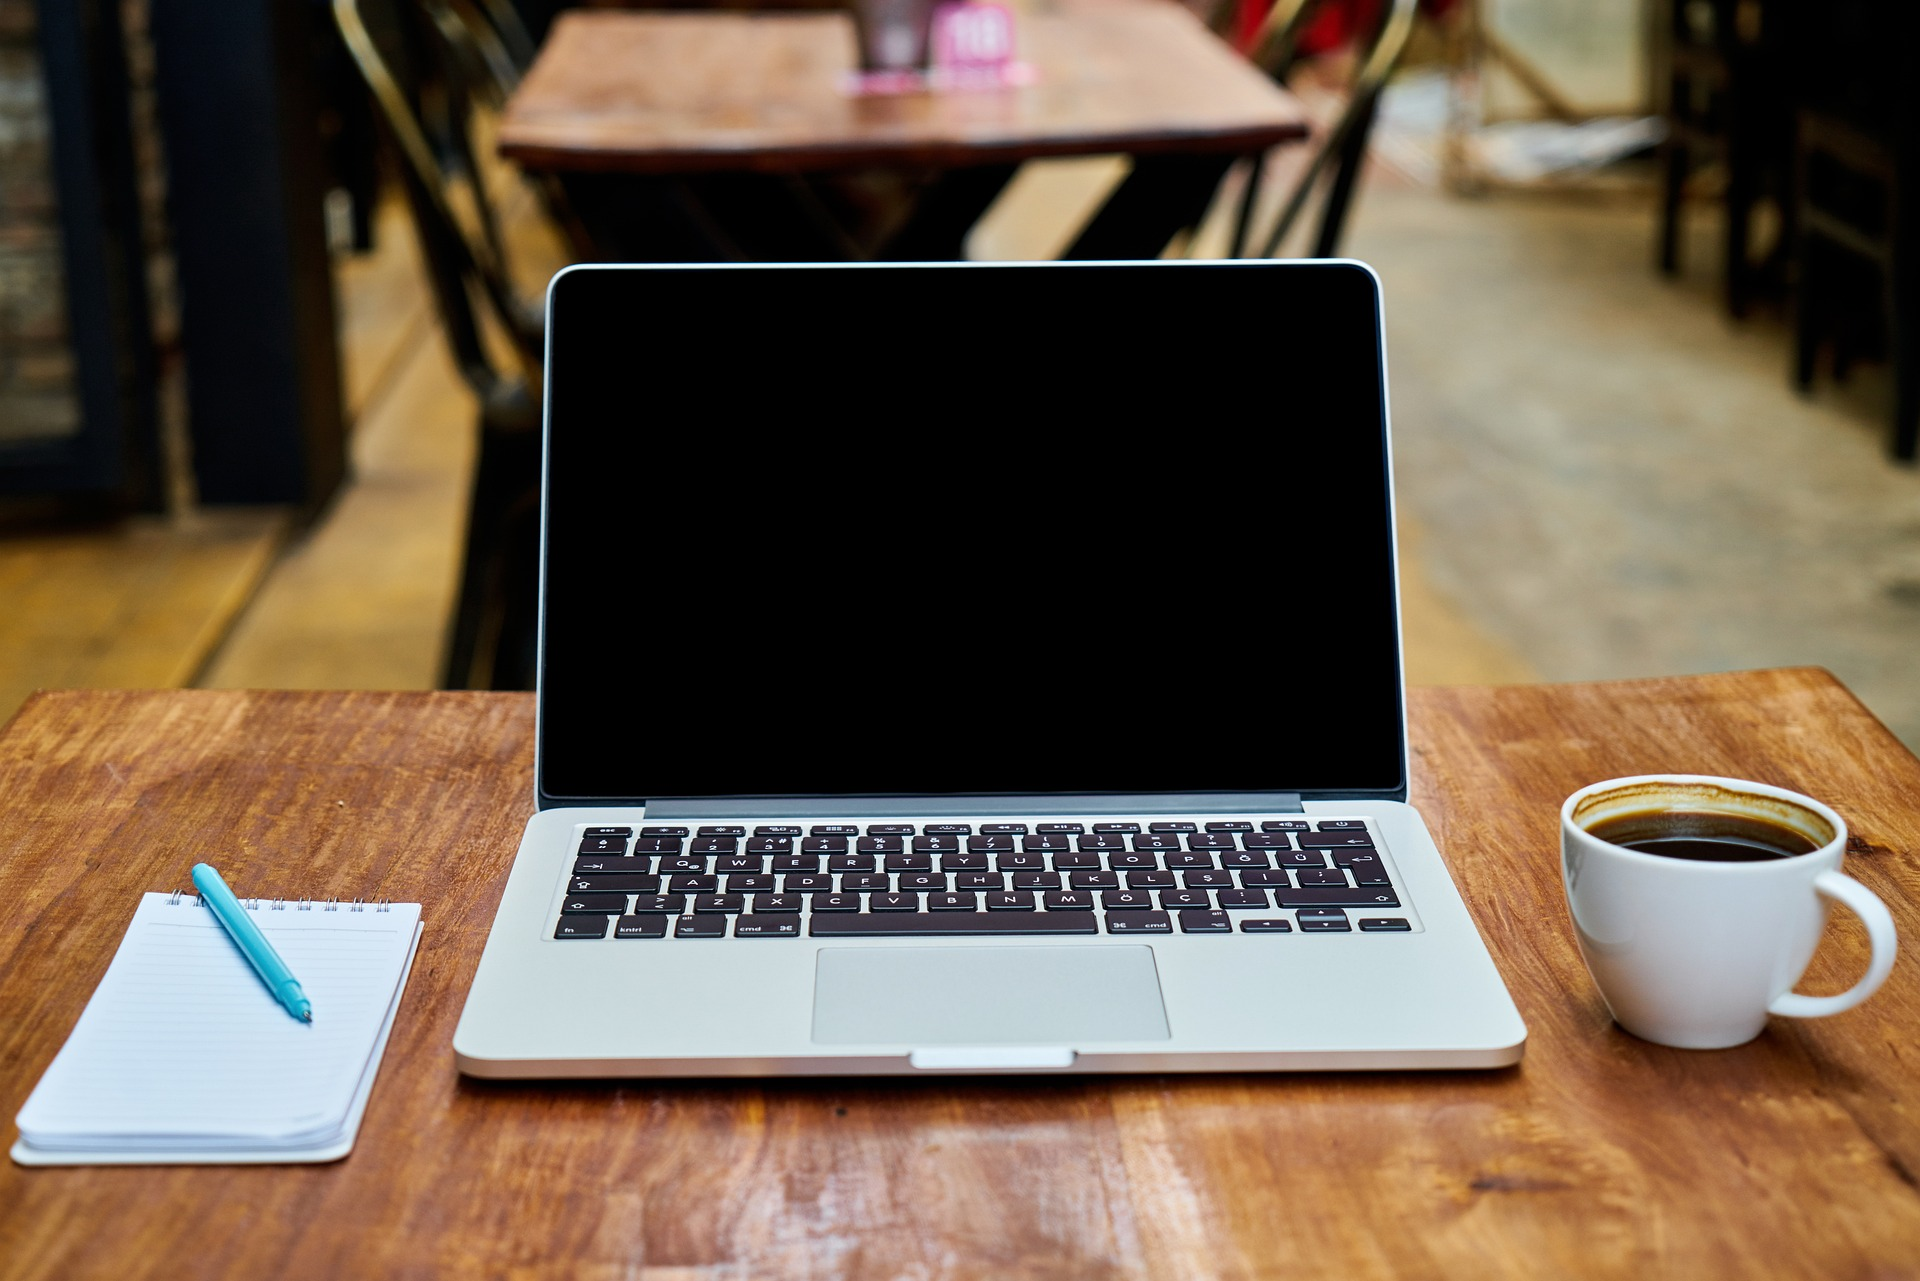
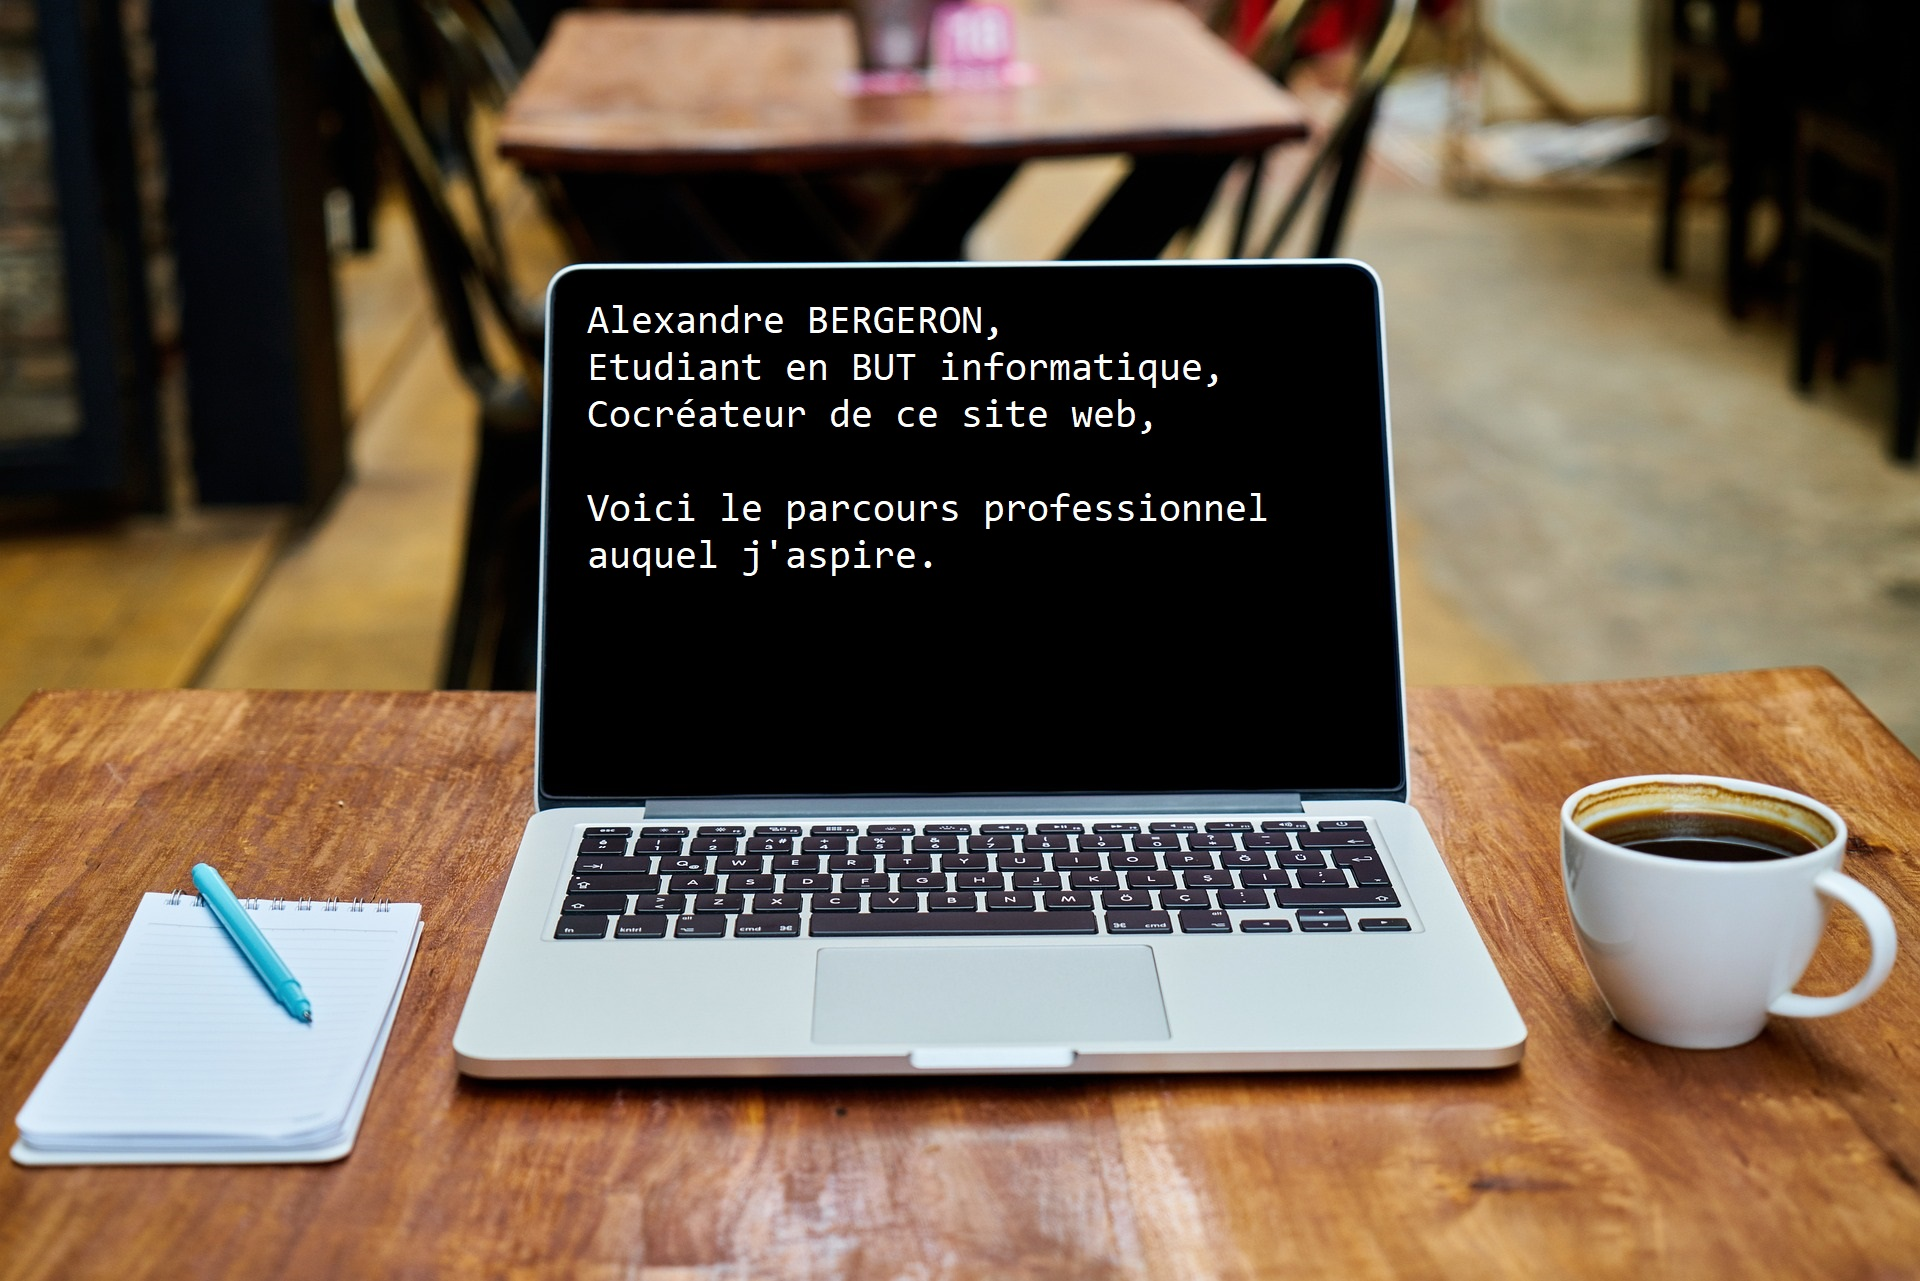
Mise à jour Alexandre

Changed region(s): [[0.3125, 0.2186, 0.625, 0.3435], [0.3125, 0.3747, 0.6562, 0.4684]]

diff --git a/Alexandre/style.css b/Alexandre/style.css
@@ -101,13 +101,6 @@ nav a {
 
 /* ----------------- */
 
-h1{
-	font-size: 30px;
-	padding-top: 6%;
-	padding-left: 30%;
-    color: white;
-}
-
 .identité{
     color: white;
     text-shadow: 2px 3px 5px gray;
@@ -162,7 +155,7 @@ h2{
     border: solid;
     border-color: white;
 
-    margin-top: -15%;
+    margin-top: -50%;
     margin-left: 5%;
     margin-bottom: 10%;
 
@@ -182,20 +175,13 @@ h2{
     margin-bottom: 10%;
 }
 
-h3{
-    font-size: 40px;
-    margin-top: -37.5%;
-    margin-left: 58.5%;
-    color: white;
-}
-
 .salaires{
     color: white;
     text-shadow: 2px 3px 5px gray;
     font-size: 20px;
     
-    width: 25%;
-    height: 50%;
+    width: 400px;
+    height: 400px;
 
     padding : 2%;
 
@@ -214,8 +200,8 @@ h3{
     text-shadow: 2px 3px 5px gray;
     font-size: 20px;
     
-    width: 25%;
-    height: 50%;
+    width: 400px;
+    height: 400px;
 
     padding : 2%;
 
@@ -234,8 +220,8 @@ h3{
     text-shadow: 2px 3px 5px gray;
     font-size: 20px;
     
-    width: 25%;
-    height: 50%;
+    width: 400px;
+    height: 400px;
 
     padding : 2%;
 
@@ -255,13 +241,13 @@ h4{
     color: white;
 }
 
-@media screen and (max-width: 1200px) {
+@media screen and (max-width: 1100px) {
 
     .accueil {
         display: none;
     }
 
-    h1 {
+    .imageordi {
         display: none;
     }
 
@@ -273,11 +259,47 @@ h4{
         display: none;
     }
 
-    .imageordi {
-        display: none;
+    .identité {
+        padding: auto;
+        margin-top: auto;
+        margin-left: auto;
+        margin-right: auto;
+        margin-bottom: 8%;
     }
 
-    h3 {
-        display: none;
+    .développeur {
+        padding: auto;
+        margin-top: 8%;
+        margin-left: auto;
+        margin-right: auto;
+        margin-bottom: 8%;
+    }
+
+    .salaires {
+        padding: auto;
+        margin-top: 8%;
+        margin-left: auto;
+        margin-right: auto;
+        margin-bottom: 8%;
+    }
+
+    .diplomes {
+        padding: auto;
+        margin-top: 8%;
+        margin-left: auto;
+        margin-right: auto;
+        margin-bottom: 8%;        
+    }
+
+    .statistiques {
+        padding: auto;
+        margin-top: 8%;
+        margin-left: auto;
+        margin-right: auto;
+        margin-bottom: 8%;
+    }
+
+    nav {
+        width: 50%;
     }
 }

diff --git a/Alexandre/script.js b/Alexandre/script.js
@@ -1,22 +1,3 @@
-/* Animation H1 */
-
-const txtAnim = document.querySelector('h1');
-new Typewriter(txtAnim, {
-  loop: true,
-  deleteSpeed: 5
-})
-.changeDelay(20)
-.typeString('<span style="color: white;">Alexandre BERGERON,</span>')
-.pauseFor(300)
-.typeString('<span style="color: white;"></br>Etudiant en BUT informatique</span>')
-.pauseFor(1000)
-.typeString('<span style="color: white;"></br>Cocréateur de ce site web</span>')
-.pauseFor(1000)
-.typeString('<span style="color: white;"></br>Voici le parcours professionnel</span>')
-.typeString('<span style="color: white;"></br> auquel j\'aspire.</span>')
-.pauseFor(7000)
-.start()
-
 /* Menu Accueil */
 
 const hamburgerButton = document.querySelector(".nav-toggler")
@@ -28,31 +9,3 @@ function toggleNav(){
   hamburgerButton.classList.toggle("active")
   navigation.classList.toggle("active")
 }
-
-/* Animation H3 */
-
-const txtAnima = document.querySelector('h3');
-new Typewriter(txtAnima, {
-  loop: true,
-  deleteSpeed: 5
-})
-.changeDelay(20)
-.typeString('<span style="color: red;">Java</span>')
-.pauseFor(1000)
-.deleteChars(4)
-.typeString('<span style="color: blue;">Py</span><span style="color: yellow;">thon</span>')
-.pauseFor(1000)
-.deleteChars(6)
-.typeString('<span style="color: lightblue;">C++</span')
-.pauseFor(1000)
-.deleteChars(3)
-.typeString('<span style="color: white;">PHP</span>')
-.pauseFor(1000)
-.deleteChars(3)
-.typeString('<span style="color: yellow;">JavaScript</span>')
-.pauseFor(1000)
-.deleteChars(10)
-.typeString('<span style="color: darkblue;">SQL</span>')
-.pauseFor(1000)
-.deleteChars(3)
-.start()

diff --git a/Alexandre/index.html b/Alexandre/index.html
@@ -19,7 +19,7 @@
             <a href="../index.html">| Home |</a>
             <a href="./index.html#ancreAccueil">- Accueil -</a>
             <a href="./index.html#ancreIdentité">- Identité et études -</a>
-            <a href="./index.html#ancreDev">- Le métier de développeur -</a>
+            <a href="./index.html#ancreDev">- Être développeur -</a>
         </nav>
 
         <button type="button" aria-label="toggle curtain navigation" class="nav-toggler">
@@ -29,7 +29,6 @@
         </button>
         
         <div class="accueil">
-            <h1>|</h1>
         </div>
 
         <a id='ancreIdentité'></a>
@@ -71,7 +70,6 @@
         </div>
 
         <div class="ecrandev">
-            <h3>|</h3>
         </div>
 
         <div class="développeur">
